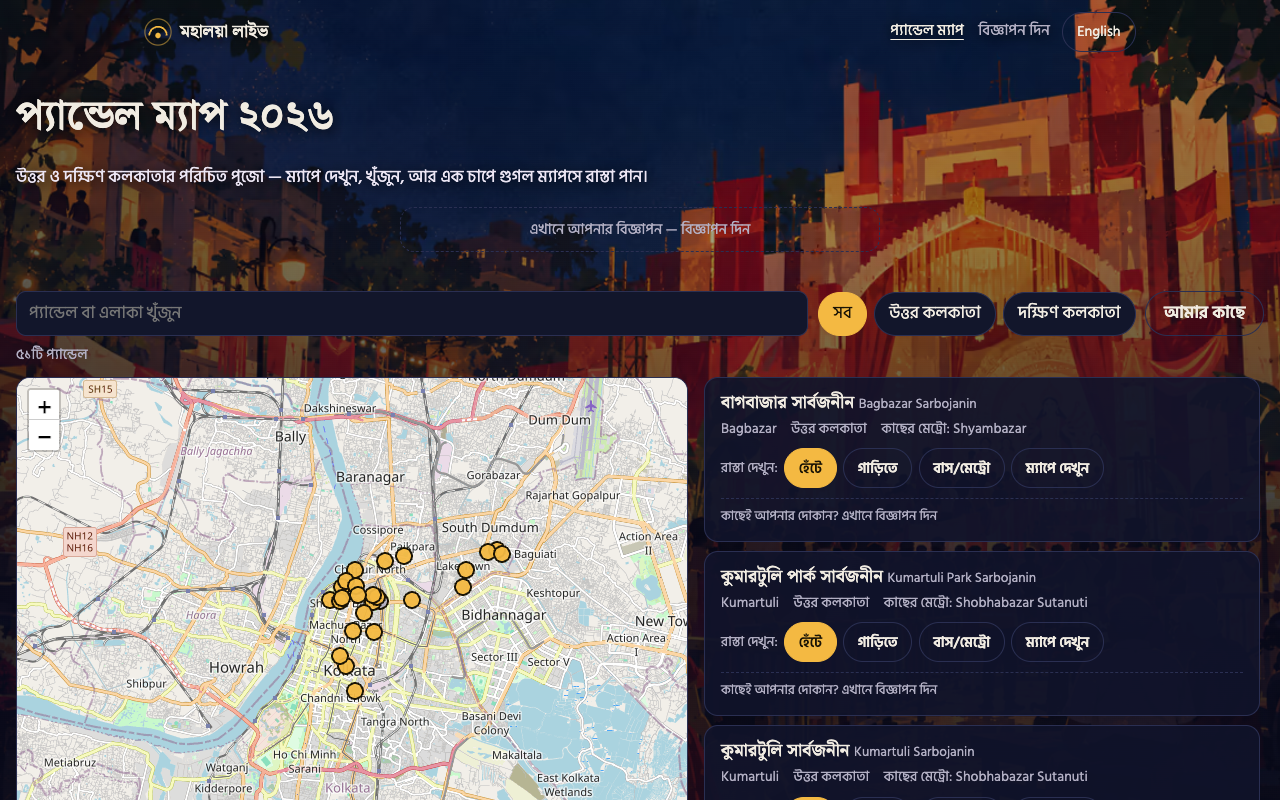
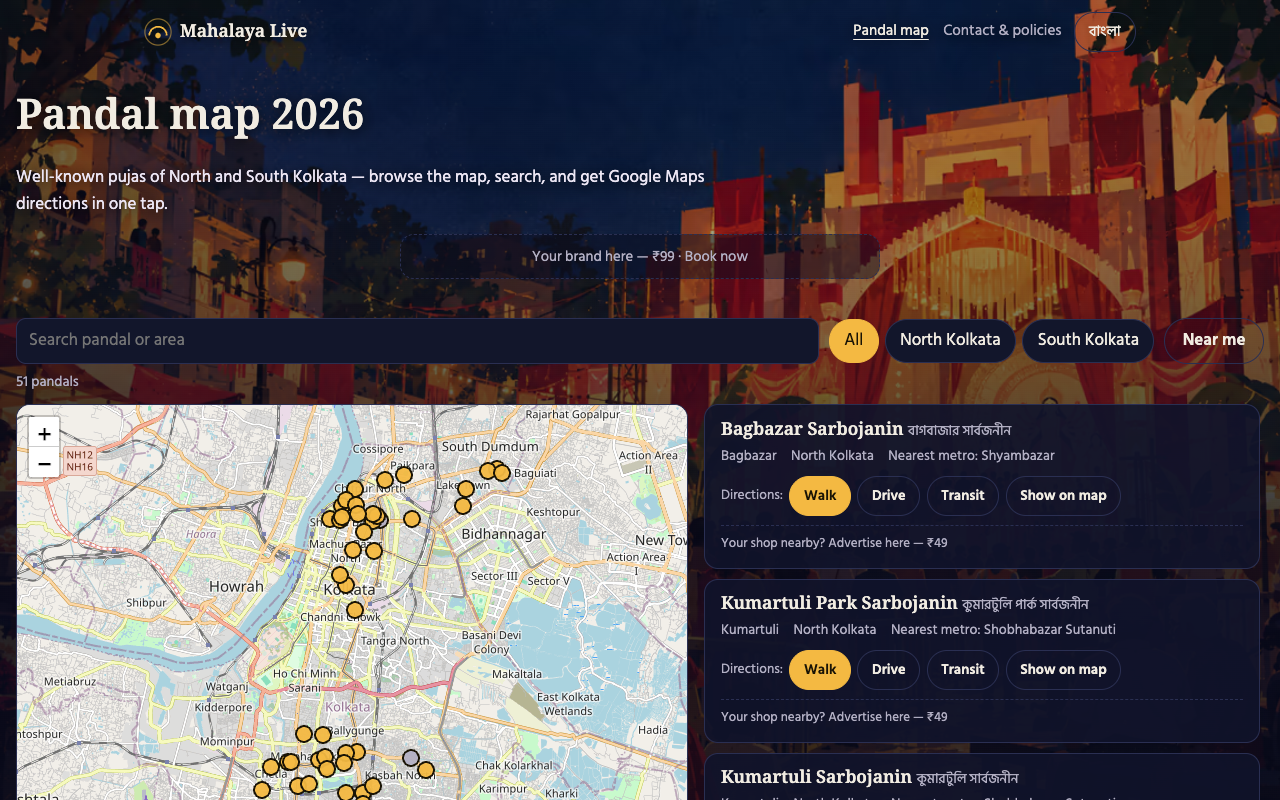
Map page: shorter map, larger routes heading; re-measure reveals on layout change
- Map height: min(70vh, 640px) on desktop (was full screen), 55vh on phones.
- 'Pandal-hopping routes' heading at section-title size; 1rem note.
- Scroll reveals re-measure when the page height changes (list/map toggle,
  filters), fixing routes that never appeared after switching to Map.

diff --git a/src/styles.css b/src/styles.css
@@ -1115,8 +1115,8 @@ a.sponsor:hover {
   display: none;
 }
 .pm-map {
-  height: 70vh;
-  min-height: 360px;
+  height: 55vh;
+  min-height: 320px;
   border-radius: var(--radius);
   overflow: hidden;
   background: var(--bg-2);
@@ -1154,10 +1154,10 @@ a.sponsor:hover {
     top: 0.75rem;
   }
   .pm-map {
-    height: calc(100vh - 1.5rem);
+    height: min(70vh, 640px);
   }
   .pm-list-wrap {
-    max-height: calc(100vh - 1.5rem);
+    max-height: min(70vh, 640px);
     overflow-y: auto;
     padding-right: 0.25rem;
   }
@@ -2392,4 +2392,16 @@ button.pm-eat.cta:hover {
   border-radius: 18px;
   -webkit-backdrop-filter: blur(14px) saturate(140%);
   backdrop-filter: blur(14px) saturate(140%);
+}
+
+/* Routes heading: a proper section title, with a readable note under it */
+.page-pandals #routes > h2 {
+  font-size: clamp(1.6rem, 3.2vw, 2.1rem);
+  margin-bottom: 0.35rem;
+}
+.page-pandals #routes > p {
+  font-size: 1rem;
+  line-height: 1.55;
+  max-width: 44rem;
+  margin-bottom: 1.25rem;
 }

diff --git a/src/features/motion.ts b/src/features/motion.ts
@@ -147,4 +147,15 @@ export function initMotion(): void {
   });
   // Lazy-loaded fonts change line heights; recompute trigger positions once ready.
   void document.fonts.ready.then(() => ScrollTrigger.refresh());
+  // Page height changes (list ↔ map view, filters, search) move everything below;
+  // re-measure so scroll reveals still fire at the right place.
+  let lastH = document.documentElement.scrollHeight;
+  let timer = 0;
+  new ResizeObserver(() => {
+    const h = document.documentElement.scrollHeight;
+    if (Math.abs(h - lastH) < 40) return;
+    lastH = h;
+    clearTimeout(timer);
+    timer = window.setTimeout(() => ScrollTrigger.refresh(), 150);
+  }).observe(document.body);
 }
